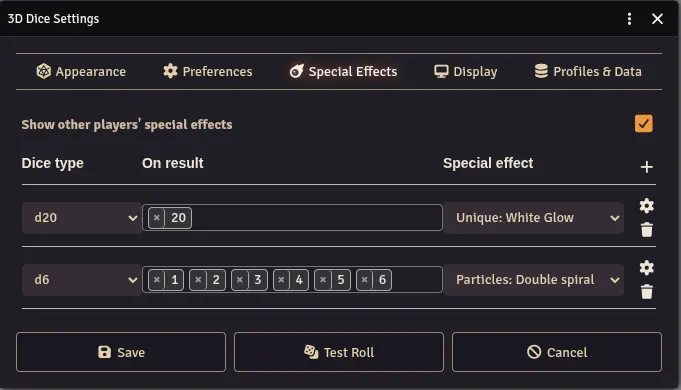
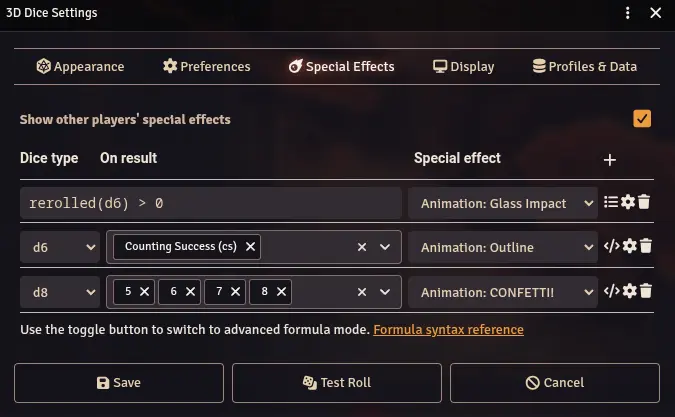
Replace old confetti module with the Celebrate module

diff --git a/module/sfx/DiceSFXManager.js b/module/sfx/DiceSFXManager.js
@@ -51,7 +51,7 @@ export const DiceSFXManager = {
         if(!DiceSFXManager.SFX_MODE_LIST){
             DiceSFXManager.SFX_MODE_LIST = {};
             Object.values(DiceSFXManager.SFX_MODE_CLASS).forEach((sfx)=>{
-                if(sfx.id.startsWith("PlayConfettiStrength") && (!game.modules.get("confetti") || !game.modules.get("confetti").active))
+                if(sfx.id.startsWith("PlayConfettiStrength") && (!game.modules.get("celebrate") || !game.modules.get("celebrate").active))
                     return;
                 DiceSFXManager.SFX_MODE_LIST[sfx.id] = sfx.specialEffectName;
             });
@@ -76,7 +76,7 @@ export const DiceSFXManager = {
 
         //for each possible sfx, initialize
         sfxUniqueList.forEach((sfxClassName) => {
-            if(sfxClassName.startsWith("PlayConfettiStrength") && (!game.modules.get("confetti") || !game.modules.get("confetti").active))
+            if(sfxClassName.startsWith("PlayConfettiStrength") && (!game.modules.get("celebrate") || !game.modules.get("celebrate").active))
                 return;
             DiceSFXManager.addSFXMode(DiceSFXManager.SFX_MODE_CLASS[sfxClassName]);
         });

diff --git a/module/sfx/PlayConfettiStrength3.js b/module/sfx/PlayConfettiStrength3.js
@@ -6,9 +6,9 @@ export class PlayConfettiStrength3 extends DiceSFX {
 
     /**@override play */
     async play(){
-        const strength = window.confetti.confettiStrength.high;
-        const shootConfettiProps = window.confetti.getShootConfettiProps(strength);
-
-        window.confetti.handleShootConfetti(shootConfettiProps);
+        const api = game.modules.get('celebrate').api;
+        const strength = api.confettiStrength.high;
+        const shootConfettiProps = api.getShootConfettiProps(strength);
+        api.handleShootConfetti(shootConfettiProps);
     }
 }

diff --git a/module/sfx/PlayConfettiStrength1.js b/module/sfx/PlayConfettiStrength1.js
@@ -6,9 +6,9 @@ export class PlayConfettiStrength1 extends DiceSFX {
 
     /**@override play */
     async play(){
-        const strength = window.confetti.confettiStrength.low;
-        const shootConfettiProps = window.confetti.getShootConfettiProps(strength);
-
-        window.confetti.handleShootConfetti(shootConfettiProps);
+        const api = game.modules.get('celebrate').api;
+        const strength = api.confettiStrength.low;
+        const shootConfettiProps = api.getShootConfettiProps(strength);
+        api.handleShootConfetti(shootConfettiProps);
     }
 }

diff --git a/module/sfx/PlayConfettiStrength2.js b/module/sfx/PlayConfettiStrength2.js
@@ -6,9 +6,9 @@ export class PlayConfettiStrength2 extends DiceSFX {
 
     /**@override play */
     async play(){
-        const strength = window.confetti.confettiStrength.med;
-        const shootConfettiProps = window.confetti.getShootConfettiProps(strength);
-
-        window.confetti.handleShootConfetti(shootConfettiProps);
+        const api = game.modules.get('celebrate').api;
+        const strength = api.confettiStrength.med;
+        const shootConfettiProps = api.getShootConfettiProps(strength);
+        api.handleShootConfetti(shootConfettiProps);
     }
 }

diff --git a/docs/src/content/docs/guide/special-effects.md b/docs/src/content/docs/guide/special-effects.md
@@ -211,7 +211,7 @@ if (skillValue && dsnDie.result <= Math.ceil(skillValue * 0.05)) {
 
 ### Confetti
 
-Three intensity levels. Requires the [Confetti](https://foundryvtt.com/packages/confetti) module.
+Three intensity levels. Requires the [Celebrate](https://foundryvtt.com/packages/celebrate) module.
 
 :::note
 Modules can register additional custom effects via the [SFX API](/foundryvtt-dice-so-nice/api/sfx/).
